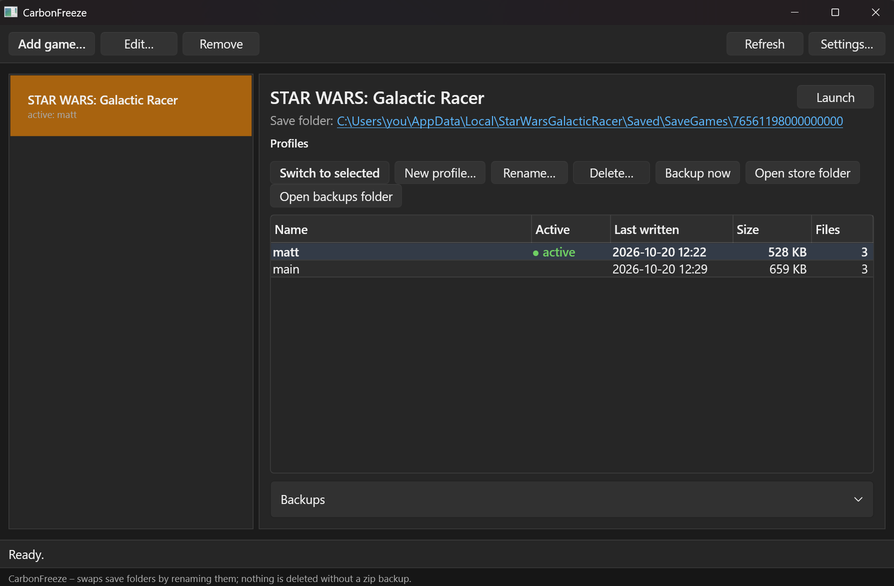
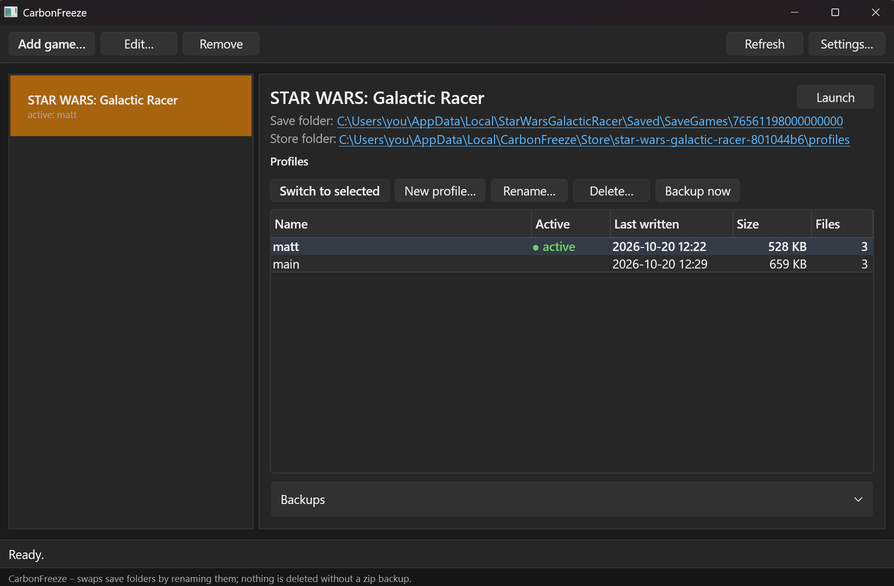
Tidy the profile action row for narrow windows
The row keeps only profile actions, with a 6px gap on every side so a
wrapped row no longer touches the one above. The store folder is now a
link line under the save folder, and the backups folder button sits
inside the Backups section above its list. README screenshot refreshed.

Changed region(s): [[0.302, 0.215, 0.9664, 0.3686], [0.302, 0.3686, 0.9966, 0.4915]]

diff --git a/src/CarbonFreeze.App/Views/MainWindow.xaml b/src/CarbonFreeze.App/Views/MainWindow.xaml
@@ -141,6 +141,16 @@
                                            Visibility="{Binding SavePathError, Converter={StaticResource NullToVis}}" />
                             </WrapPanel>
 
+                            <!-- Store folder -->
+                            <WrapPanel Margin="0,2,0,0">
+                                <TextBlock Style="{StaticResource Text.Secondary}" Text="Store folder: " />
+                                <Button Style="{StaticResource Button.Link}" Command="{Binding OpenStoreFolderCommand}"
+                                        ToolTip="Parked profiles and backups for this game. Open in Explorer">
+                                    <TextBlock Text="{Binding StorePath}" TextWrapping="Wrap"
+                                               Foreground="{DynamicResource Brush.Accent}" TextDecorations="Underline" />
+                                </Button>
+                            </WrapPanel>
+
                             <!-- Steam Cloud banner -->
                             <Border Style="{StaticResource Border.Warning}"
                                     Visibility="{Binding ShowCloudWarning, Converter={StaticResource BoolToVis}}">
@@ -153,19 +163,25 @@
 
                         <!-- Profile buttons -->
                         <WrapPanel DockPanel.Dock="Top" Margin="{StaticResource Spacing.ButtonRow}">
-                            <Button Content="Switch to selected" Style="{StaticResource Button.Primary}"
+                            <WrapPanel.Resources>
+                                <Style TargetType="Button" BasedOn="{StaticResource {x:Type Button}}">
+                                    <Setter Property="Margin" Value="0,0,6,6" />
+                                </Style>
+                            </WrapPanel.Resources>
+                            <Button Content="Switch to selected" Style="{StaticResource Button.Primary}" Margin="0,0,6,6"
                                     Command="{Binding SwitchToSelectedCommand}" ToolTip="Enter" />
                             <Button Content="New profile…" Command="{Binding NewProfileCommand}" />
                             <Button Content="Rename…" Command="{Binding RenameProfileCommand}" />
                             <Button Content="Delete…" Command="{Binding DeleteProfileCommand}" ToolTip="Delete key. A zip backup is kept." />
                             <Button Content="Backup now" Command="{Binding BackupNowCommand}" />
-                            <Button Content="Open store folder" Command="{Binding OpenStoreFolderCommand}" ToolTip="{Binding StorePath}" />
-                            <Button Content="Open backups folder" Command="{Binding OpenBackupsFolderCommand}" ToolTip="{Binding BackupPath}" />
                         </WrapPanel>
 
                         <!-- Backups -->
                         <Expander DockPanel.Dock="Bottom" Header="Backups" IsExpanded="False" Margin="0,8,0,0">
-                            <Grid MaxHeight="180" Margin="0,4,0,0">
+                            <DockPanel Margin="0,4,0,0">
+                            <Button DockPanel.Dock="Top" HorizontalAlignment="Right" Style="{StaticResource Button.Small}" Margin="0,0,0,4"
+                                    Content="Open backups folder" Command="{Binding OpenBackupsFolderCommand}" ToolTip="{Binding BackupPath}" />
+                            <Grid MaxHeight="180">
                                 <DataGrid x:Name="BackupsGrid" ItemsSource="{Binding Backups}">
                                     <DataGrid.Columns>
                                         <DataGridTextColumn Header="Profile" Binding="{Binding ProfileName}" Width="*" />
@@ -193,10 +209,11 @@
                                            IsHitTestVisible="False"
                                            Visibility="{Binding HasBackups, Converter={StaticResource BoolToVis}, ConverterParameter=Invert}" />
                             </Grid>
+                            </DockPanel>
                         </Expander>
 
                         <!-- Profiles grid -->
-                        <DataGrid x:Name="ProfilesGrid" Margin="0,8,0,0"
+                        <DataGrid x:Name="ProfilesGrid" Margin="0,2,0,0"
                                   ItemsSource="{Binding Profiles}" SelectedItem="{Binding SelectedProfile}"
                                   PreviewKeyDown="ProfilesGrid_PreviewKeyDown"
                                   MouseDoubleClick="ProfilesGrid_MouseDoubleClick">
